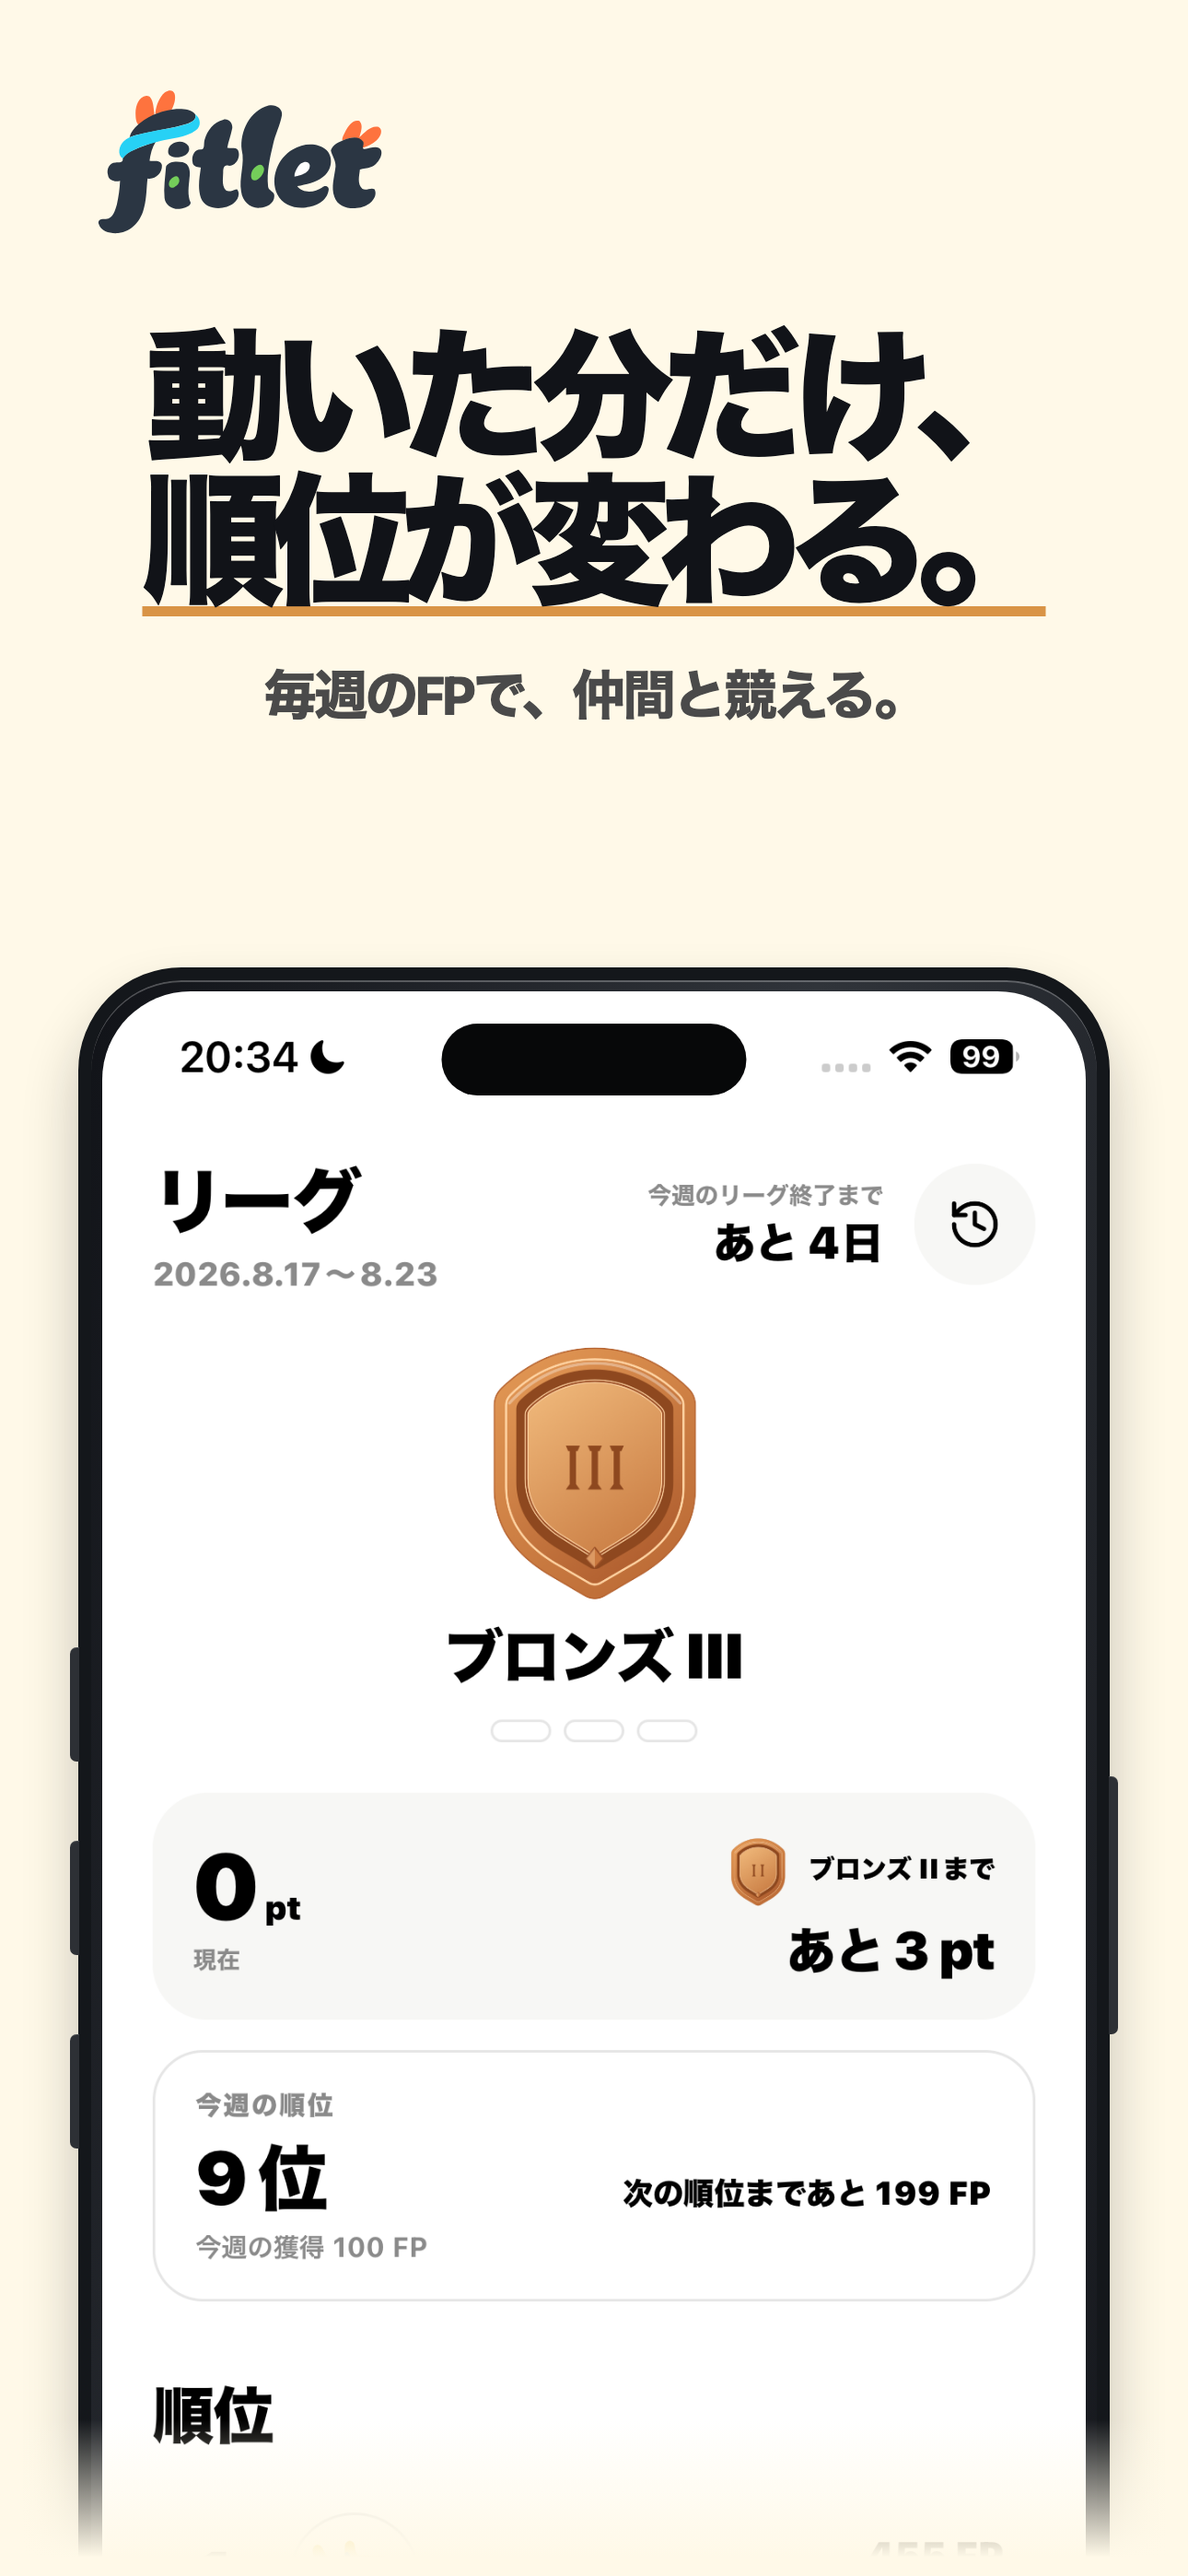
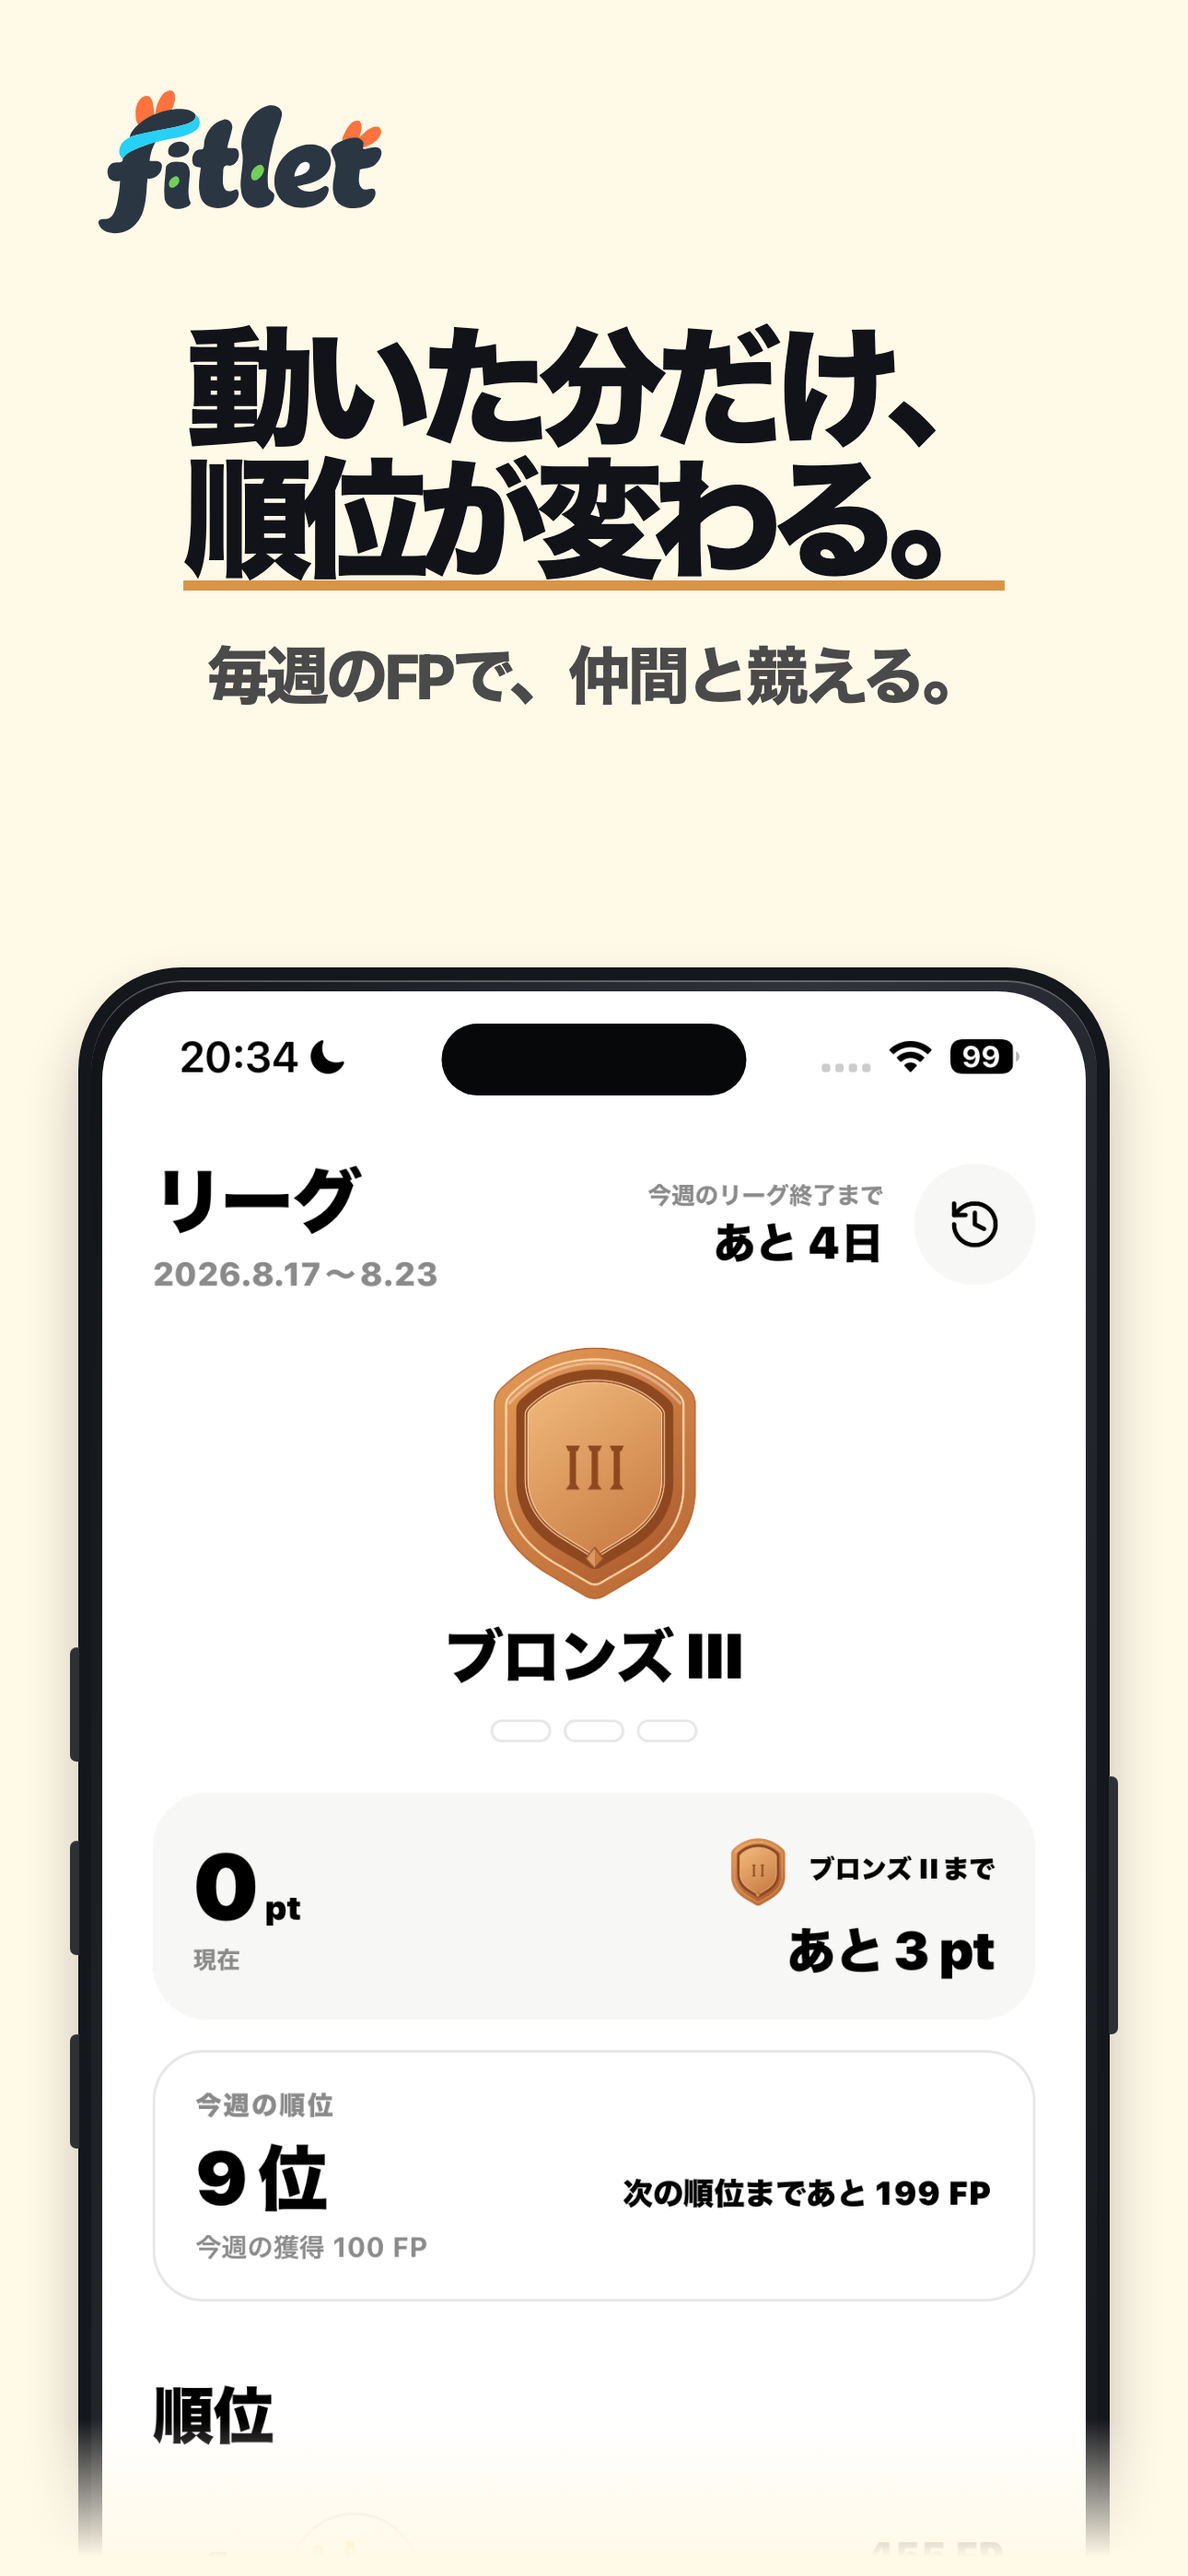
Improve store screenshot readability

Changed region(s): [[0.124, 0.1245, 0.8682, 0.28]]

diff --git a/app/store-screenshot/page.tsx b/app/store-screenshot/page.tsx
@@ -3,6 +3,8 @@
 import { useEffect } from "react";
 import { publicAsset } from "../lib/publicAsset";
 
+const storeImageVersion = "2026-08-23-2";
+
 const scenes = {
   home: {
     label: "ホーム",
@@ -30,7 +32,7 @@ const scenes = {
   },
   coach: {
     label: "Pro・コーチ",
-    title: <><span className="store-shot-title-line">今日のメニューを、</span><span className="store-shot-title-line store-shot-title-emphasis">コーチに任せる。</span></>,
+    title: <><span className="store-shot-title-line">今日の運動を、</span><span className="store-shot-title-line store-shot-title-emphasis">コーチに任せる。</span></>,
     detail: "Proなら、次の運動を提案。",
     src: "/app-screens/ja/real-coach.png",
     pro: true,
@@ -90,7 +92,7 @@ function StoreShotGallery() {
       <div className="store-shot-gallery-grid">
         {(Object.entries(scenes) as Array<[SceneKey, (typeof scenes)[SceneKey]]>).map(([key, scene]) => (
           <a className="store-shot-gallery-card" href={publicAsset(`/store-screenshot/?scene=${key}&locale=ja`)} key={key}>
-            <img src={publicAsset(`/store/ja/fitlet-${key}-ja.png`)} alt={`${scene.label}のストア用画像`} />
+            <img src={publicAsset(`/store/ja/fitlet-${key}-ja.png?v=${storeImageVersion}`)} alt={`${scene.label}のストア用画像`} />
             <div>
               <strong>{scene.label}</strong>
               <span>開く ↗</span>

diff --git a/app/globals.css b/app/globals.css
@@ -1052,7 +1052,7 @@ img { display: block; max-width: 100%; }
 .store-shot-copy h1 {
   max-width: 1180px;
   margin: 0;
-  font-size: 154px;
+  font-size: 140px;
   font-weight: 950;
   letter-spacing: -.09em;
   line-height: 1.02;
@@ -1072,7 +1072,7 @@ img { display: block; max-width: 100%; }
   max-width: 1060px;
   margin: 48px 0 0;
   color: rgba(17,19,24,.76);
-  font-size: 58px;
+  font-size: 68px;
   font-weight: 780;
   letter-spacing: -.055em;
   line-height: 1.45;
@@ -1134,9 +1134,6 @@ img { display: block; max-width: 100%; }
 .store-shot-training { --store-bg: #eef6d6; --store-accent: #75bd4d; }
 .store-shot-league { --store-bg: #fff9e8; --store-accent: #d99446; }
 .store-shot-profile { --store-bg: #f4f3ef; --store-accent: #fa5b91; }
-.store-shot-training .store-shot-copy h1,
-.store-shot-coach .store-shot-copy h1 { font-size: 128px; }
-.store-shot-profile .store-shot-copy h1 { font-size: 140px; }
 .store-shot-coach {
   --store-bg: #10131b;
   --store-accent: #f0c25d;
